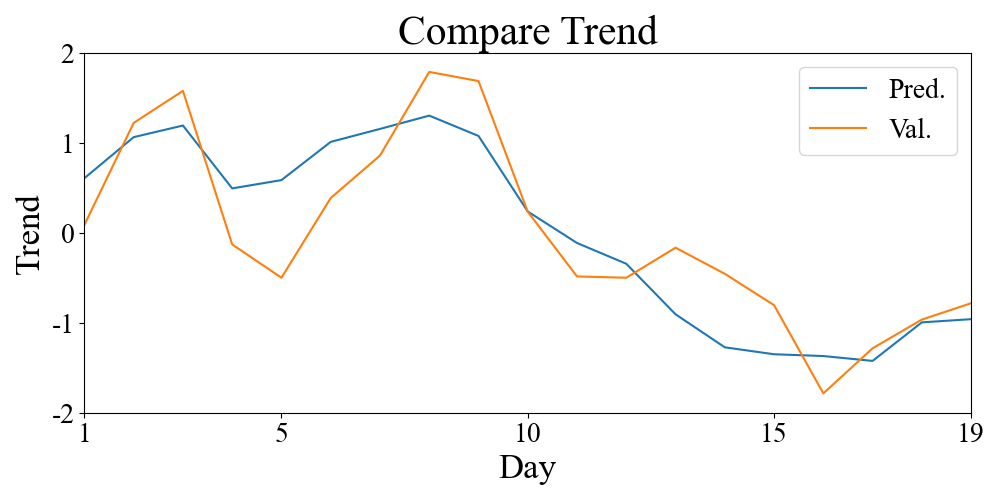
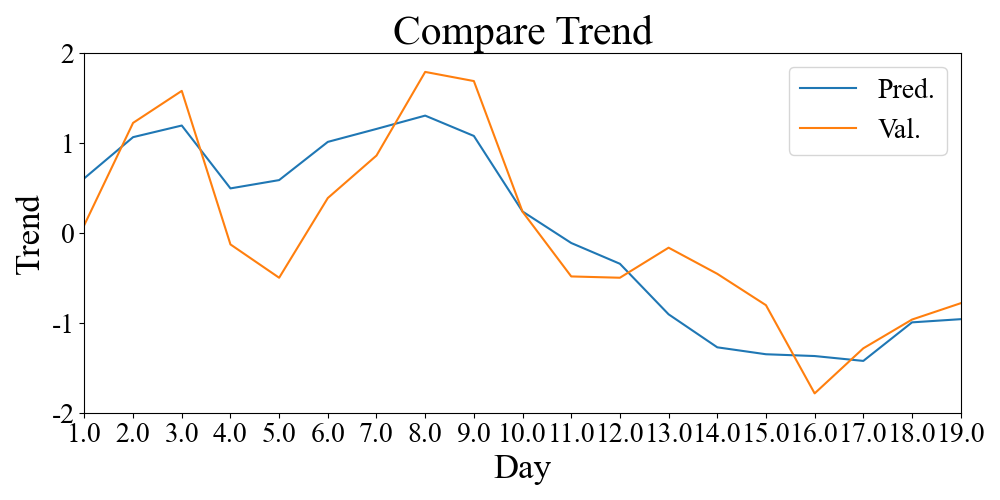
4/8

diff --git a/abner/main.py b/abner/main.py
@@ -68,10 +68,10 @@ test_dataloader = torch.utils.data.DataLoader(dataset = test_dataset, batch_size
 
 #%% Parameters
 Epoch = config.ep
-# single_model = model.m03(4, 16, config.tap, hid=config.hid, bid=config.bid)
-single_model = model.m04(4, 16, config.tap, hid=config.hid, bid=config.bid)
-# single_optim = optim.SGD(single_model.parameters(), lr=config.lr)
-single_optim = optim.Adam(single_model.parameters(), lr=config.lr)
+single_model = model.m03(4, 16, config.tap, hid=config.hid, bid=config.bid)
+# single_model = model.m04(4, 16, config.tap, hid=config.hid, bid=config.bid)
+single_optim = optim.SGD(single_model.parameters(), lr=config.lr)
+# single_optim = optim.Adam(single_model.parameters(), lr=config.lr)
 loss_f = nn.L1Loss()
 
 single_model.to(device)

diff --git a/abner/plot.py b/abner/plot.py
@@ -21,9 +21,11 @@ Pred_loss = np.array(pd.read_csv('pred_plot.csv', header=None))
 #%% Loss
 fig, ax = plt.subplots(1, 1, figsize = (10,5))
 
+# ep = np.linspace(1,20,20)
 ep = np.linspace(1,60,60)
 yticksL = [0, 30, 60, 90, 120, 150]
 xticksL = [1, 10, 20, 30, 40, 50, 60]
+# xticksL = [1, 5, 10, 15, 20]
 
 plt.title("Loss Figure", fontsize=30)
 ax.plot(ep, Data_loss)
@@ -54,8 +56,8 @@ ax.plot(x, pred, label='Pred.')
 ax.plot(x, val, label='Val.')
 ax.set_xlim(x[0], x[-1])
 ax.set_xlabel('Day', size=25)
-ax.set_xticks(xticksL)
-ax.set_xticklabels(xticksL, fontsize=20)
+ax.set_xticks(x)
+ax.set_xticklabels(x, fontsize=20)
 # ax.set_xticks(Ses)
 ax.set_ylabel('Trend', size=25)
 ax.set_yticks(yticksL)

diff --git a/abner/config.py b/abner/config.py
@@ -1,13 +1,13 @@
+# tap = 5
+# ep = 20
+# lr = 1e-3
+
+# hid = 1
+# bid = True
+
 tap = 5
 ep = 60
-lr = 1e-3
+lr = 1e-2
 
-hid = 1
+hid = 4
 bid = True
-
-# tap = 5
-# ep = 60
-# lr = 1e-2
-
-# hid = 4
-# bid = True
